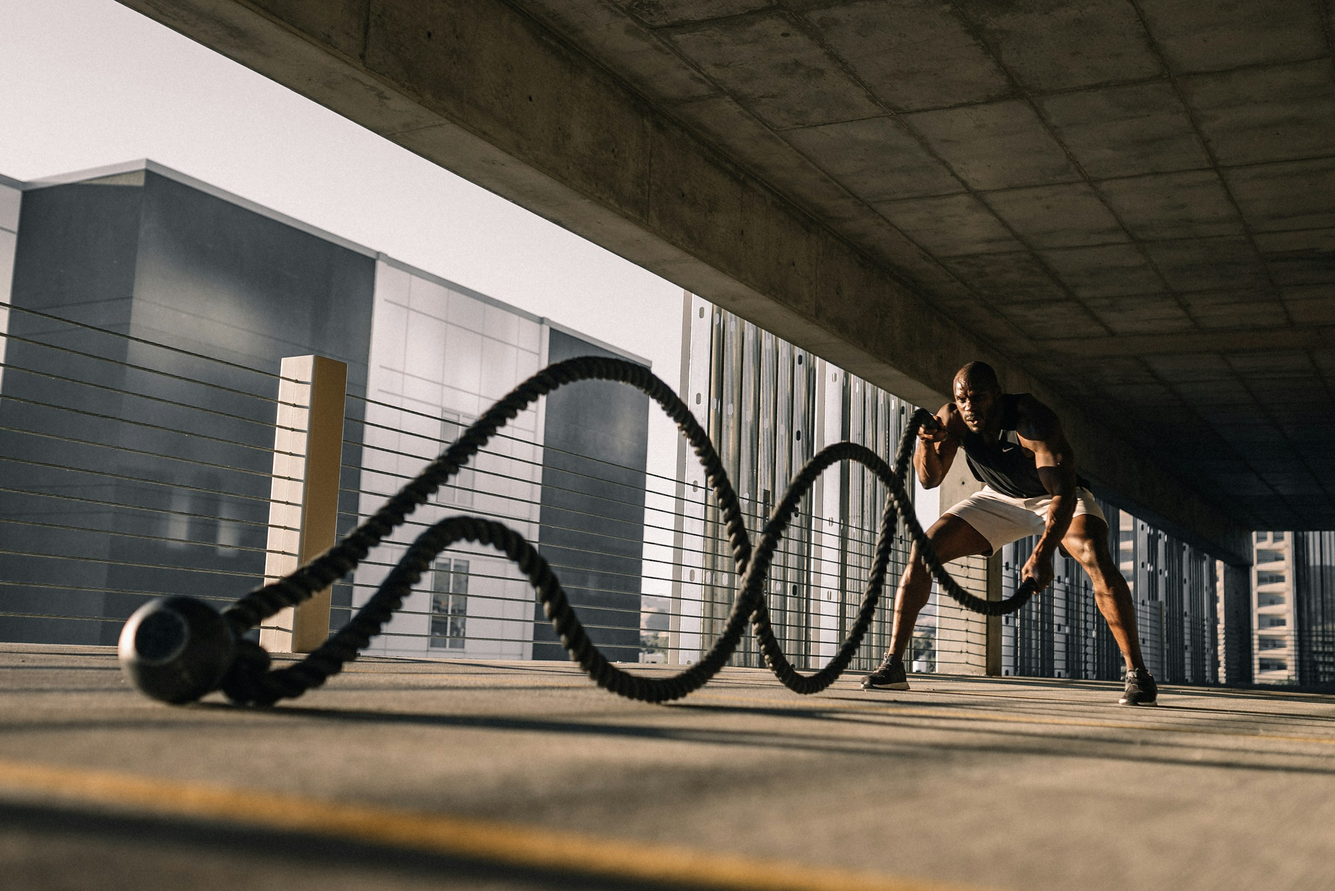
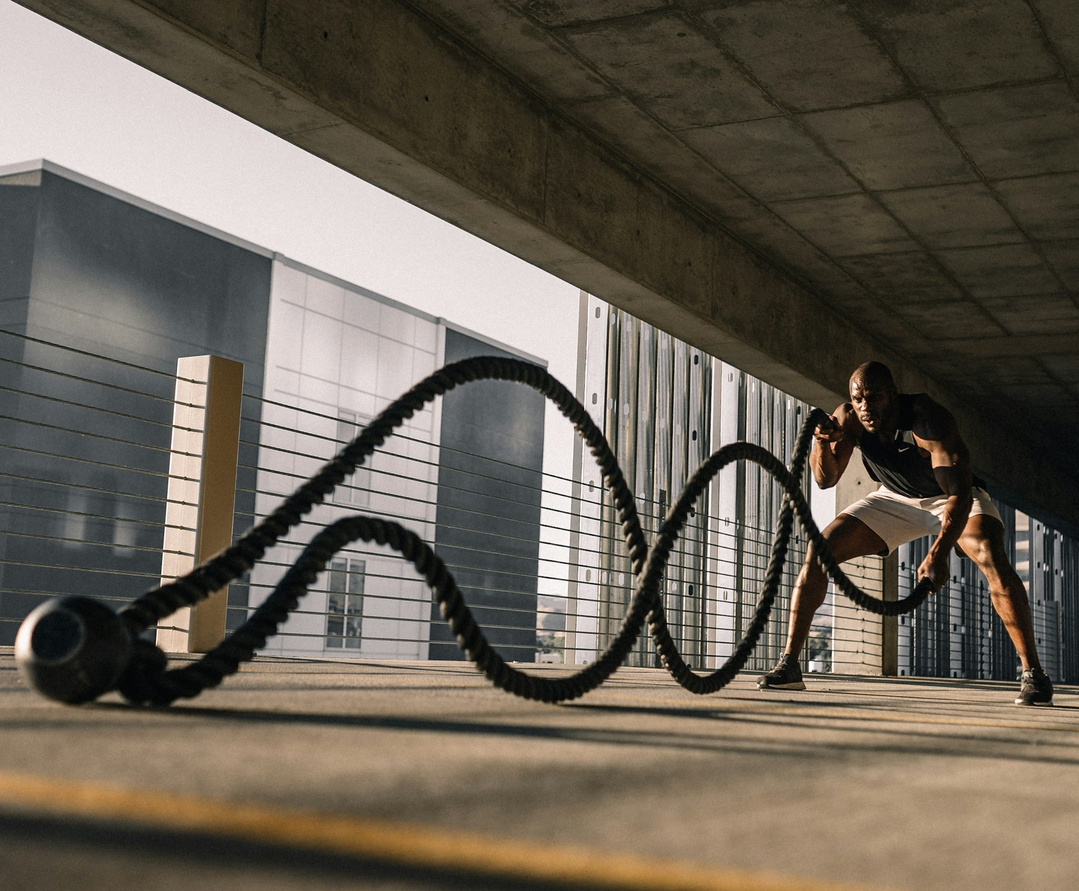
compressed image file to improve page load time

diff --git a/pam-fitness-client/src/assets/images.ts b/pam-fitness-client/src/assets/images.ts
@@ -1,7 +1,7 @@
 export { default as heroImg } from "./images/hero-page.jpg";
-export {default as servicesImg1} from "./images/qym-cable-pull-workout.jpg"; 
+export {default as servicesImg1} from "./images/gym-cable-pull-workout.jpg"; 
 export {default as servicesImg2} from "./images/gym-treadmill-workout.jpg"; 
-export {default as servicesImg3} from "./images/squat-workout.jpg"; 
+export {default as joinUsImg} from "./images/joinUsImg.jpg"; 
 // export {default as servicesImg1} from ""; 
 export {default as servicesImg5} from "./images/biceps-workout.jpg"; 
 export {default as communityImg} from "./images/gym-community.jpg"; 
